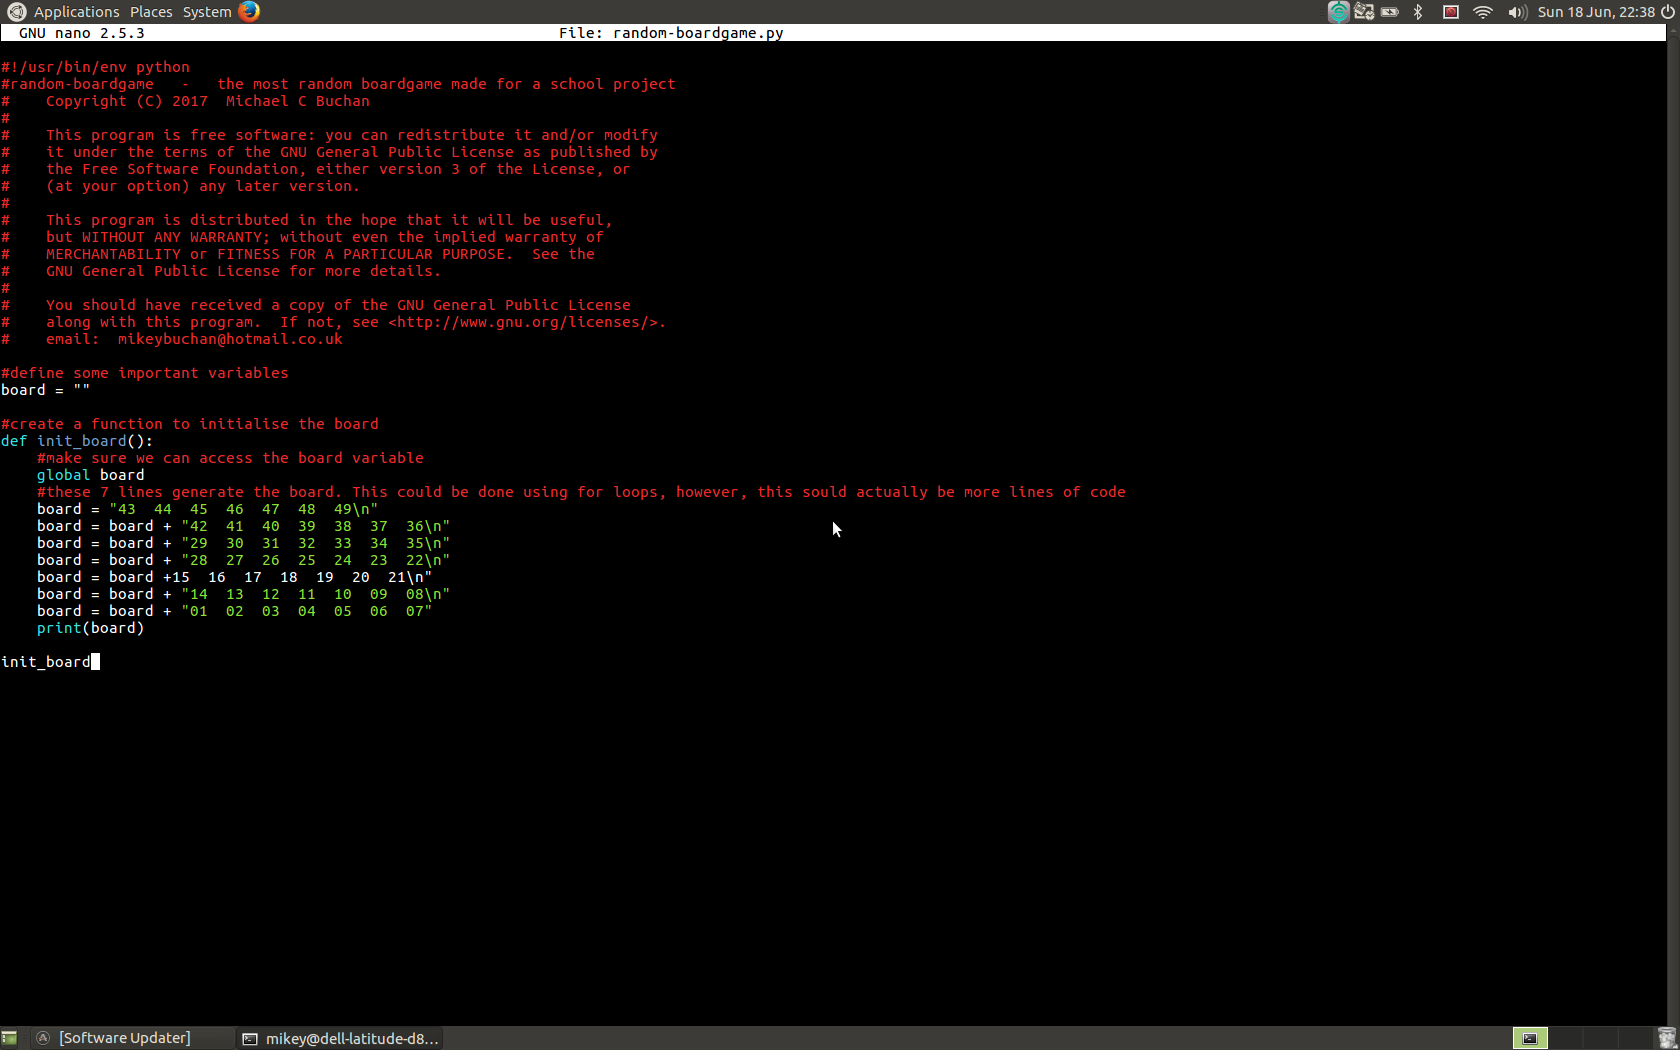
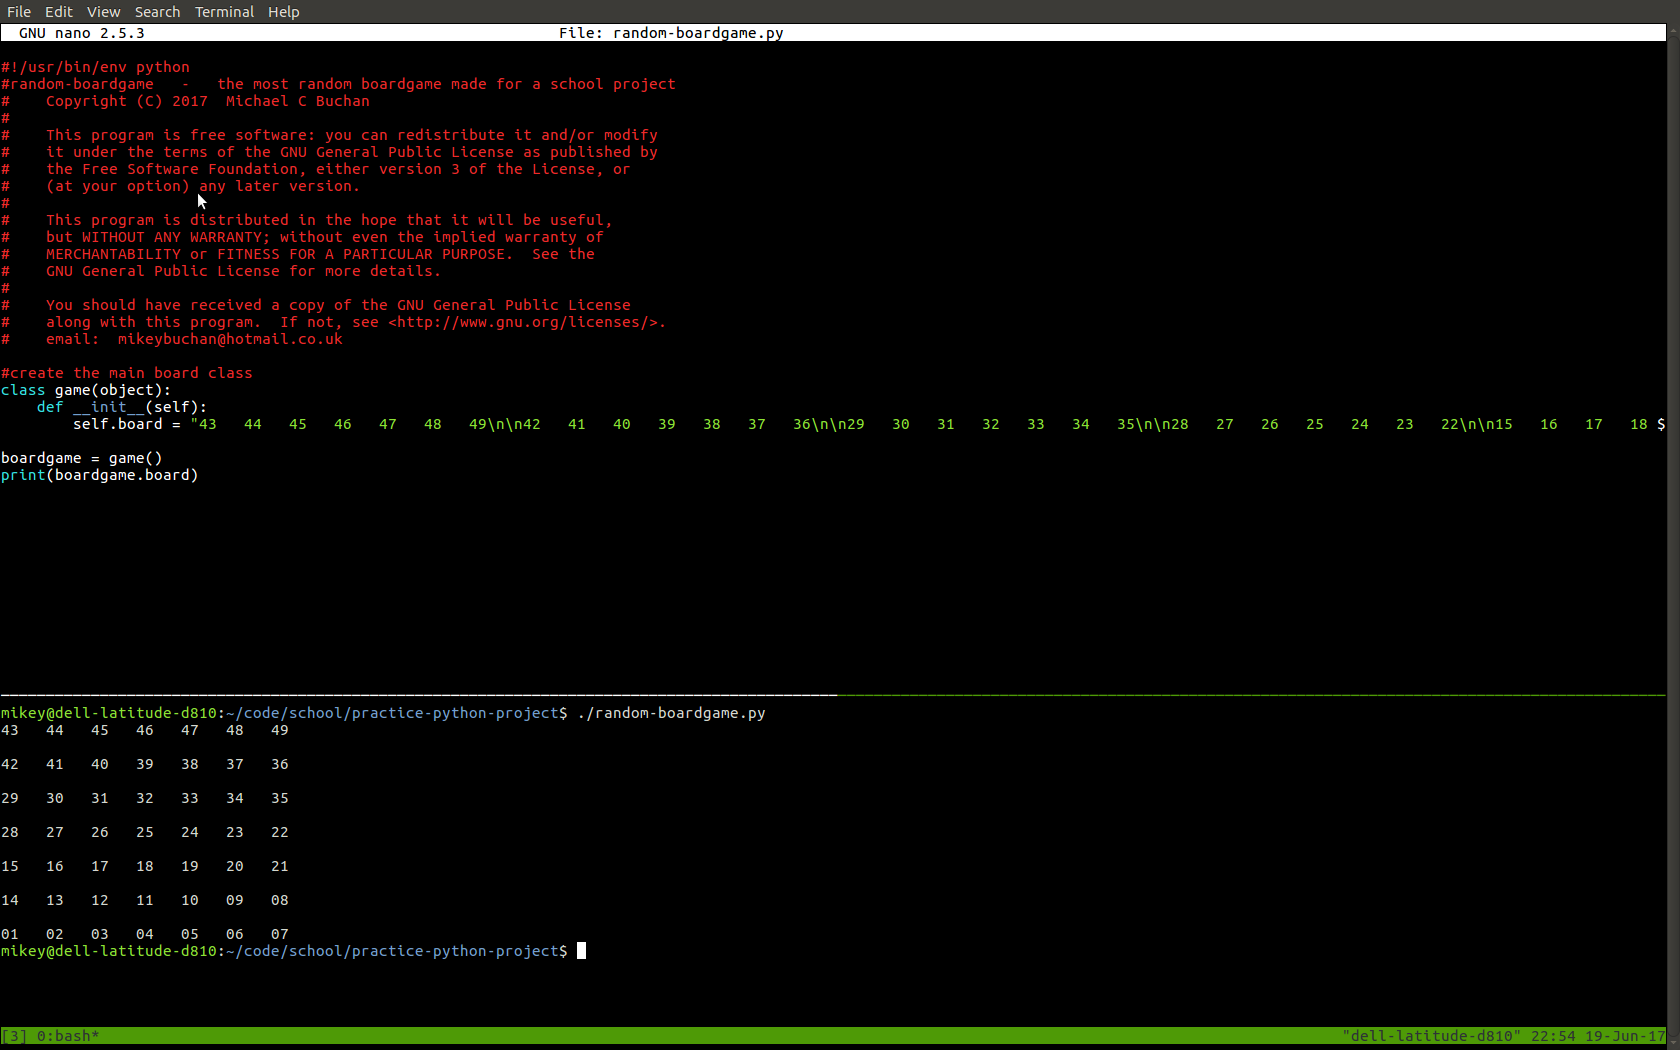
redid the code with a class structure that actually works!

diff --git a/random-boardgame.py b/random-boardgame.py
@@ -16,21 +16,10 @@
 #    along with this program.  If not, see <http://www.gnu.org/licenses/>.
 #    email:  mikeybuchan@hotmail.co.uk
 
-#define some important variables
-board = ""
+#create the main board class
+class game(object):
+    def __init__(self):
+        self.board = "43   44   45   46   47   48   49\n\n42   41   40   39   38   37   36\n\n29   30   31   32   33   34   35\n\n28   27   26   25   24   23   22\n\n15   16   17   18   19   20   21\n\n14   13   12   11   10   09   08\n\n01   02   03   04   05   06   07"
 
-#create a function to initialise the board
-def init_board():
-    #make sure we can access the board variable
-    global board
-    #these 7 lines generate the board. This could be done using for loops, however, this sould actually be more lines of code
-    board = "43  44  45  46  47  48  49\n"
-    board = board + "42  41  40  39  38  37  36\n"
-    board = board + "29  30  31  32  33  34  35\n"
-    board = board + "28  27  26  25  24  23  22\n"
-    board = board +15  16  17  18  19  20  21\n"
-    board = board + "14  13  12  11  10  09  08\n"
-    board = board + "01  02  03  04  05  06  07"
-    print(board)
-
-init_board
+boardgame = game()
+print(boardgame.board)
